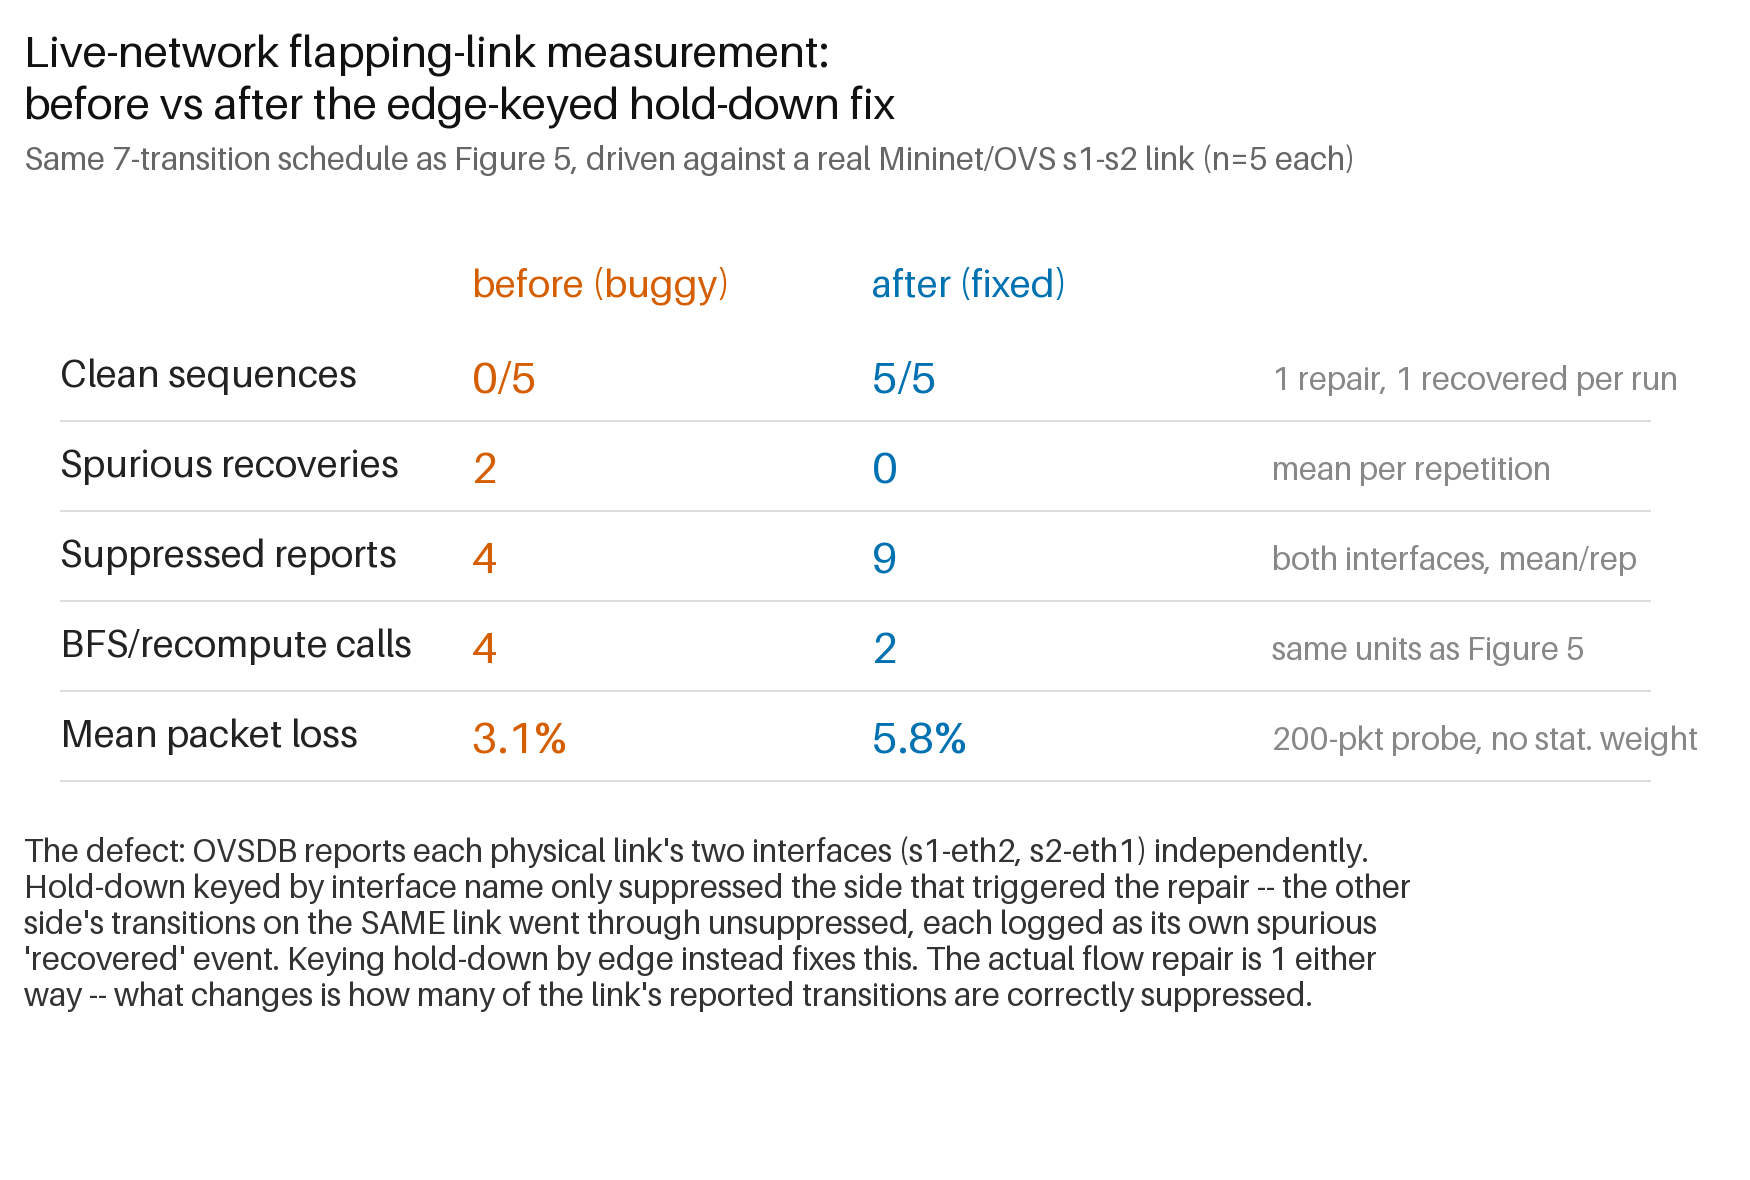
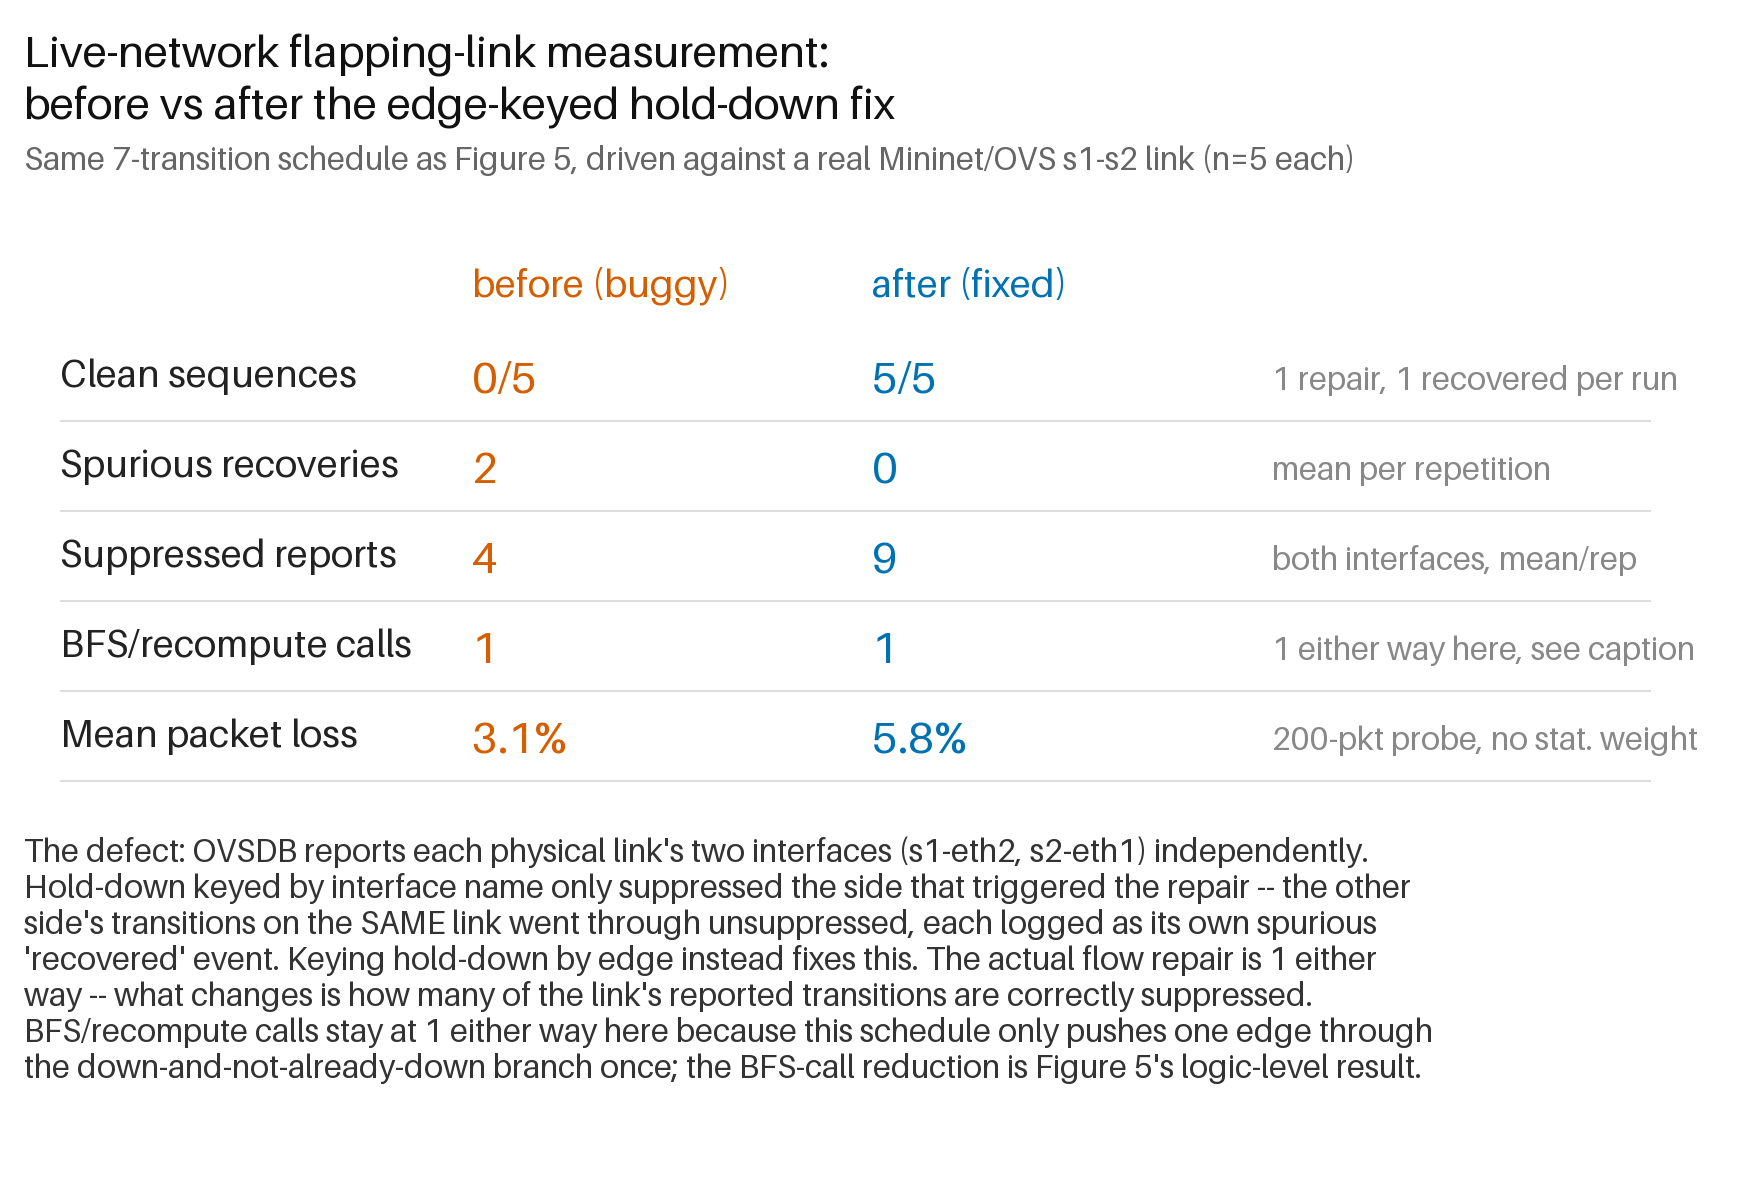
v0.7.0: runtime link_state validation + Figure 6 BFS-count fix
Two findings from re-reading v0.6.0's code and figures together:

1. decide_link_event() now rejects an unrecognised link_state value
   outright (a new invalid_link_state action), instead of silently
   falling through to "ignored". v0.6.0 only validated the OVSDB startup
   snapshot; the ongoing event stream had the same gap. New regression
   test.

2. paper3_holddown_live_comparison.png's "BFS/recompute calls" row
   counted every non-suppressed action (including "recovered", which
   never calls bfs_path()) instead of only repair/noop/repair_failed.
   Real count is 1-to-1 for this live schedule, not the 4-to-2 previously
   shown -- the BFS-call-reduction claim belongs to Figure 5's
   logic-level, multi-transition test, not this live figure. Figure
   caption and manuscript prose updated to say so explicitly.

11/11 unit tests pass.

Changed region(s): [[0.0, 0.8542, 0.8331, 0.9153], [0.7406, 0.5186, 0.9566, 0.5797]]

diff --git a/analysis/paper3_analysis.py b/analysis/paper3_analysis.py
@@ -467,15 +467,29 @@ def draw_live_holddown_comparison(path):
         # transition on the interface that was never held down), so a
         # sequence ending in "recovered" is not by itself enough to tell the
         # two conditions apart; the repeated middle occurrences are what the
-        # figure needs to surface. "BFS/recomputation calls" mirrors the
-        # count reported for the logic-level test in Figure 5 (repair + noop
-        # + recovered actions, i.e. every action that is not "suppressed"),
-        # so the two figures use directly comparable units.
+        # figure needs to surface.
+        #
+        # "BFS/recompute calls" must count only the actions decide_link_event()
+        # actually reaches bfs_path() for: "repair", "noop", and
+        # "repair_failed" (the three outcomes of its `state=="down"` branch).
+        # "recovered" does NOT call BFS -- it just clears down_edges. An
+        # earlier revision of this function computed
+        # `len(sequence) - suppressed_count`, i.e. every non-suppressed
+        # action including "recovered", which is why it reported 4/2 here;
+        # the real count in both live conditions is 1, because this flap
+        # schedule only ever pushes one edge through the "down and not
+        # already in down_edges" branch once -- the recomputation-count
+        # *reduction* Figure 5 demonstrates is a logic-level result over a
+        # schedule with multiple distinct down_edges-triggering transitions,
+        # not something this specific live protocol was designed to
+        # reproduce (see Section 7.3's discussion of this exact point).
         seqs = [r["observed_action_sequence"].split(";") for r in rows]
         clean = sum(1 for s in seqs if s.count("repair") == 1 and s.count("recovered") == 1)
         spurious_recovered = [s.count("recovered") - 1 for s in seqs]
         suppressed = [s.count("suppressed") for s in seqs]
-        bfs_calls = [len(s) - s.count("suppressed") for s in seqs]
+        bfs_calls = [
+            s.count("repair") + s.count("noop") + s.count("repair_failed") for s in seqs
+        ]
         return {
             "mean_loss": sum(losses) / len(losses),
             "clean": clean,
@@ -506,7 +520,7 @@ def draw_live_holddown_comparison(path):
         ("Clean sequences", f"{pre_s['clean']}/{pre_s['n']}", f"{post_s['clean']}/{post_s['n']}", "1 repair, 1 recovered per run"),
         ("Spurious recoveries", f"{pre_s['mean_spurious']:.0f}", f"{post_s['mean_spurious']:.0f}", "mean per repetition"),
         ("Suppressed reports", f"{pre_s['mean_suppressed']:.0f}", f"{post_s['mean_suppressed']:.0f}", "both interfaces, mean/rep"),
-        ("BFS/recompute calls", f"{pre_s['mean_bfs']:.0f}", f"{post_s['mean_bfs']:.0f}", "same units as Figure 5"),
+        ("BFS/recompute calls", f"{pre_s['mean_bfs']:.0f}", f"{post_s['mean_bfs']:.0f}", "1 either way here, see caption"),
         ("Mean packet loss", f"{pre_s['mean_loss']:.1f}%", f"{post_s['mean_loss']:.1f}%", "200-pkt probe, no stat. weight"),
     ]
     label_w = max(draw.textlength(label, font=font) for label, *_ in cols)
@@ -533,7 +547,9 @@ def draw_live_holddown_comparison(path):
         "Hold-down keyed by interface name only suppressed the side that triggered the repair -- the other\n"
         "side's transitions on the SAME link went through unsuppressed, each logged as its own spurious\n"
         "'recovered' event. Keying hold-down by edge instead fixes this. The actual flow repair is 1 either\n"
-        "way -- what changes is how many of the link's reported transitions are correctly suppressed.",
+        "way -- what changes is how many of the link's reported transitions are correctly suppressed.\n"
+        "BFS/recompute calls stay at 1 either way here because this schedule only pushes one edge through\n"
+        "the down-and-not-already-down branch once; the BFS-call reduction is Figure 5's logic-level result.",
         fill="#333333", font=small,
     )
     image.save(path)
@@ -569,7 +585,7 @@ def draw_startup_comparison(path):
     draw.text((24, 76), "before vs after the initial-snapshot fix", fill="#111111", font=title_font)
     draw.text(
         (24, 138),
-        "s1-s2 brought down before the agent process starts; n=1 each (deterministic outcome, not sampled)",
+        "s1-s2 brought down before the agent process starts; pre-fix n=1, fixed n=3 robustness reps",
         fill="#666666", font=small,
     )
 

diff --git a/network/test_daim_link_agent.py b/network/test_daim_link_agent.py
@@ -1,7 +1,7 @@
 #!/usr/bin/env python3
 """Pure-logic unit tests for daim_link_agent, independent of Mininet/OVS/OVSDB.
 
-Ten things are checked without a live network:
+Eleven things are checked without a live network:
 1. `test_bfs_path_computation` -- the BFS-computed primary and alternate
    paths produce exactly the flow sets that were previously hand-written in
    stage3_link_recovery.py's install_primary()/install_alternate(), so the
@@ -44,8 +44,12 @@ Ten things are checked without a live network:
    fix: an edge already down at startup must be excluded from the initial
    path computation, not silently assumed up.
 10. `test_startup_rejects_unexpected_link_state` -- a robustness check found
-    by review: an unrecognised `link_state` value must be rejected, not
-    silently treated as "up"."""
+    by review: an unrecognised `link_state` value must be rejected at
+    startup, not silently treated as "up".
+11. `test_decide_link_event_rejects_unexpected_link_state` -- the same
+    check's runtime counterpart: an unrecognised `link_state` value in the
+    ongoing event stream must be rejected outright, not fall through to
+    "ignored"."""
 import json
 import os
 
@@ -513,6 +517,31 @@ def test_startup_rejects_unexpected_link_state():
           "exactly 'up' or 'down' instead of silently treating it as up.")
 
 
+def test_decide_link_event_rejects_unexpected_link_state():
+    """Runtime counterpart of the startup-snapshot validation above:
+    decide_link_event() must reject an unrecognised link_state value
+    outright, before touching down_edges/interface_state/held_down_until,
+    rather than falling through to the generic "ignored" action the way an
+    earlier revision did. Found by review: only the startup snapshot was
+    validated, not the ongoing event stream, which is the same
+    silently-assume-fine gap in a different code path."""
+    down_edges = set()
+    held_down_until, interface_state = {}, {}
+    current_path = ["s1", "s2", "s4"]
+
+    d = decide_link_event(
+        INTERFACE, "unknown", down_edges, held_down_until,
+        interface_state, current_path, 0.0,
+    )
+    assert d["action"] == "invalid_link_state", d
+    assert down_edges == set(), "must not mutate down_edges on an invalid state"
+    assert interface_state == {}, "must not record an invalid state as observed"
+
+    print("daim_link_agent runtime invalid-link_state regression test: "
+          "PASS -- decide_link_event rejects an unrecognised state instead "
+          "of silently treating it as 'ignored'.")
+
+
 def main():
     test_bfs_path_computation()
     test_holddown_suppresses_flapping()
@@ -524,6 +553,7 @@ def main():
     test_read_initial_snapshot_reflects_already_down_interface()
     test_startup_detects_already_down_edge()
     test_startup_rejects_unexpected_link_state()
+    test_decide_link_event_rejects_unexpected_link_state()
 
 
 if __name__ == "__main__":

diff --git a/network/daim_link_agent.py b/network/daim_link_agent.py
@@ -226,6 +226,15 @@ def decide_link_event(name, state, down_edges, held_down_until,
     switch, neighbor = MONITORED_INTERFACES[name]
     edge = frozenset({switch, neighbor})
 
+    # Runtime counterpart of the startup snapshot's link_state validation
+    # (down_edges_from_snapshot): an unrecognised value is rejected outright,
+    # before touching any state, rather than falling through to the final
+    # "ignored" return -- the same silent-unknown-treated-as-fine gap the
+    # startup fix closed, reached via the ongoing event stream instead of
+    # the initial snapshot. Found by code review, not a live failure.
+    if state not in ("up", "down"):
+        return {"action": "invalid_link_state", "interface": name, "state": state}
+
     reconcile_expired_holddowns(held_down_until, interface_state, down_edges, now)
     interface_state[name] = state
 
@@ -477,6 +486,8 @@ def main():
                 held_down_seconds=HOLD_DOWN_SECONDS)
         elif action == "recovered":
             log("link_up_detected", interface=name)
+        elif action == "invalid_link_state":
+            log("invalid_link_state", interface=name, state=decision["state"])
         # "noop"/"ignored": no state change, nothing to log beyond the event
         # itself being a repeat notification OVSDB is allowed to send.
 

diff --git a/README.md b/README.md
@@ -57,7 +57,7 @@ uses them.
   performs the actual OVSDB/adapter I/O. Hold-down state is keyed by physical
   edge (the frozenset of the two switches a link connects), not by interface
   name, since v0.3.0 (see below).
-- `network/test_daim_link_agent.py` — ten pure-logic unit tests, runnable
+- `network/test_daim_link_agent.py` — eleven pure-logic unit tests, runnable
   with plain `python3` and no Mininet/OVS/OVSDB: (1) BFS path computation
   against hand-verified expected flow sets; (2) the hold-down state machine
   driven through a synthetic seven-transition flapping-link sequence, with
@@ -67,9 +67,11 @@ uses them.
   described below; (5)-(6) two edge-confirmation regression tests
   reproducing the v0.4.0 defect described below; (7)-(9) three
   startup-synchronization regression tests reproducing the v0.5.0 defect
-  described below; (10) a robustness test confirming an unrecognised
-  `link_state` value is rejected rather than silently treated as "up"
-  (v0.6.0).
+  described below; (10) a startup-validation robustness test confirming an
+  unrecognised `link_state` value is rejected rather than silently treated
+  as "up" (v0.6.0); (11) the same check's runtime counterpart, confirming
+  `decide_link_event()` rejects an unrecognised `link_state` in the
+  ongoing event stream instead of falling through to "ignored" (v0.7.0).
 - `network/test_stage3_startup_already_down.py` — a regression test for a
   bug in the startup live-network harness itself (v0.6.0, see below), kept
   separate from `test_daim_link_agent.py` since it tests the harness, not
@@ -162,6 +164,31 @@ and installed the correct alternate path directly: **0% packet loss** from
 the first probe packet. Both raw JSON results are retained side by side in
 `results/network/`; the full writeup is
 `results/network/STAGE3_STARTUP_ALREADY_DOWN_REPORT.md`.
+
+## Runtime link_state validation and a figure mislabelling fix (v0.7.0)
+
+Two more findings from re-reading the v0.6.0 code and figures together:
+
+- **Runtime `link_state` validation.** v0.6.0 validated the OVSDB *startup*
+  snapshot but not the ongoing event stream: `decide_link_event()` took
+  whatever `state` a live event reported and, if it wasn't `"up"` or
+  `"down"`, silently fell through to a generic `"ignored"` action -- the
+  same silently-assume-fine gap the startup fix closed, reached through a
+  different code path. `decide_link_event()` now returns a distinct
+  `invalid_link_state` action for this case, before touching any state,
+  with its own regression test.
+- **`paper3_holddown_live_comparison.png`'s "BFS/recompute calls" row was
+  wrong.** It was computed as `len(sequence) - suppressed_count`, i.e.
+  every non-suppressed action -- but `"recovered"` never calls
+  `bfs_path()` (only `decide_link_event()`'s `state=="down"` branch does),
+  so counting it as a BFS call was wrong. The real count, using only
+  `repair`/`noop`/`repair_failed`, is 1 in both the pre-fix and post-fix
+  live runs for this specific flap schedule (it only ever pushes one edge
+  through the down-and-not-already-down branch once) -- not the 4-to-2 the
+  figure previously showed. Figure 5's synthetic, multi-transition
+  schedule is what actually demonstrates the BFS-call reduction; this live
+  figure now says so explicitly instead of implying a reduction the live
+  data never measured.
 
 ## Robustness hardening and a harness bug fix (v0.6.0)
 
